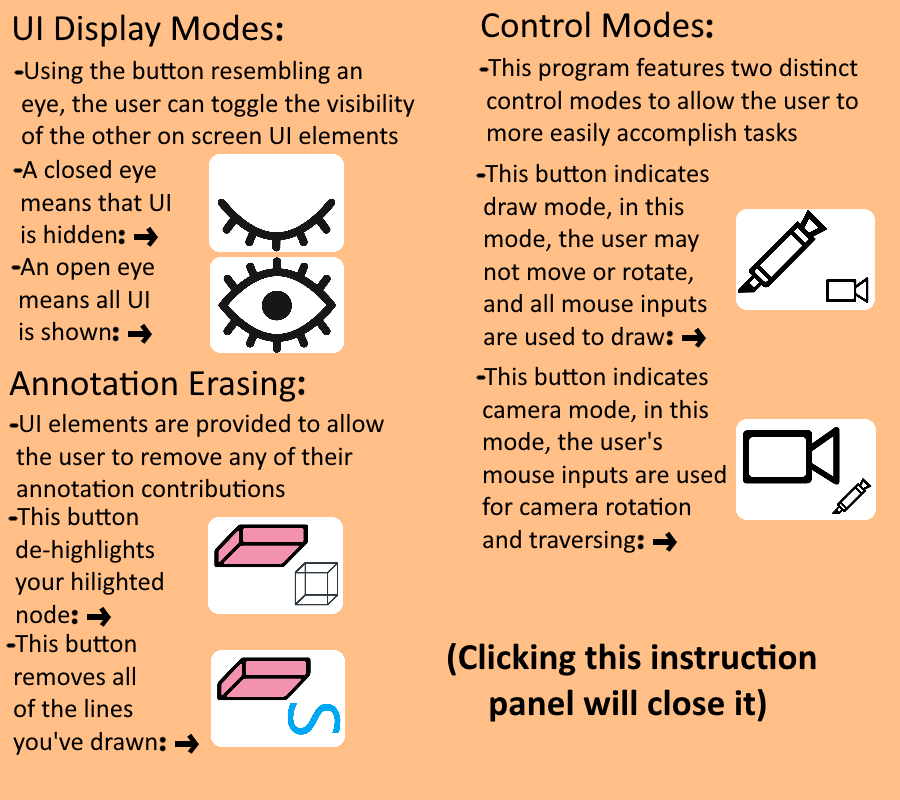
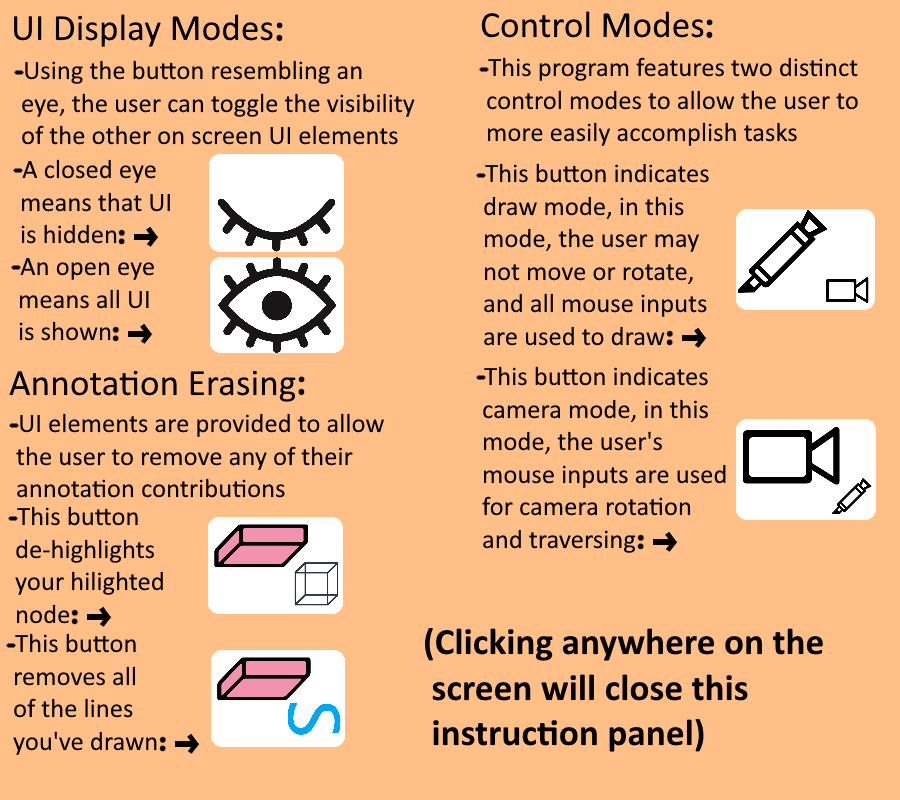
Finalized backdrop for help ui and worked with resizing the main video window to take advantage of the additional space

Changed region(s): [[0.4667, 0.7812, 0.9333, 0.9375]]

diff --git a/WebApp/client/public/multiplay/js/main.js b/WebApp/client/public/multiplay/js/main.js
@@ -44,6 +44,7 @@ function showPlayButton() {
   }
 }
 
+
 function onClickPlayButton() {
   playButton.style.display = 'none';
 
@@ -59,6 +60,7 @@ function onClickPlayButton() {
 
   //add UI instructions list
   const UIInstructions = document.createElement('img')
+  UIInstructions.style.zIndex = 200;
   UIInstructions.id = 'UIInstructionsList'
   UIInstructions.src = 'multiplay/images/InstructionPanel1.png'
   UIInstructions.style.display = 'none'
@@ -86,6 +88,7 @@ function onClickPlayButton() {
 
   //add help button
   const elementInstructionsButton = document.createElement('img')
+  elementInstructionsButton.style.zIndex = 200;
   elementInstructionsButton.id = 'instructionsButton'
   elementInstructionsButton.src = 'multiplay/images/questionJava.png'
   playerDiv.appendChild(elementInstructionsButton)
@@ -103,6 +106,7 @@ function onClickPlayButton() {
 
   //add controls instructions button
   const controlInstructionsButton = document.createElement('img')
+  controlInstructionsButton.style.zIndex = 200;
   controlInstructionsButton.id = 'controlInstructionsButton'
   controlInstructionsButton.src = 'multiplay/images/controlQuestions.png'
   controlInstructionsButton.style.display = 'none'
@@ -112,16 +116,21 @@ function onClickPlayButton() {
     if(controlInstructions.style.display == 'none'){
       controlInstructions.style.display = 'block'
       UIInstructions.style.display = 'none'
-      backdropDiv.classList.toggle('hidden')
+      //if the backdrop is hidden, show it
+      if(backdropDiv.classList.contains('hidden')){
+        backdropDiv.classList.remove('hidden')
+      }
     }
     else{
       controlInstructions.style.display = 'none'
-      backdropDiv.classList.toggle('hidden')
+      backdropDiv.classList.add('hidden')
     }
+
   })
 
   //add UI instructions button
   const UIInstructionsButton = document.createElement('img')
+  UIInstructionsButton.style.zIndex = 200;
   UIInstructionsButton.id = 'UIInstructionsButton'
   UIInstructionsButton.src = 'multiplay/images/UIQuestions.png'
   UIInstructionsButton.style.display = 'none'
@@ -131,16 +140,28 @@ function onClickPlayButton() {
     if(UIInstructions.style.display == 'none'){
       UIInstructions.style.display = 'block'
       controlInstructions.style.display = 'none'
-      backdropDiv.classList.toggle('hidden')
+          //if the backdrop is hidden, show it
+      if(backdropDiv.classList.contains('hidden')){
+        backdropDiv.classList.remove('hidden')
+      }
     }
     else{
       UIInstructions.style.display = 'none'
-      backdropDiv.classList.toggle('hidden')
+      backdropDiv.classList.add('hidden')
     }
+
+  })
+
+  backdropDiv.addEventListener('click', function(){
+    backdropDiv.classList.toggle('hidden')
+    UIInstructions.style.display = 'none'
+    controlInstructions.style.display = 'none'
+    controlInstructionsButton.style.display = 'none'
+    UIInstructionsButton.style.display = 'none'
   })
 
 
-  // add fullscreen button
+  //add fullscreen button
   const elementFullscreenButton = document.createElement('img');
   elementFullscreenButton.id = 'fullscreenButton';
   elementFullscreenButton.src = 'multiplay/images/FullScreen.png';
@@ -149,6 +170,7 @@ function onClickPlayButton() {
     if (!document.fullscreenElement || !document.webkitFullscreenElement) {
       if (document.documentElement.requestFullscreen) {
         document.documentElement.requestFullscreen();
+        console.log("sus")
       }
       else if (document.documentElement.webkitRequestFullscreen) {
         document.documentElement.webkitRequestFullscreen(Element.ALLOW_KEYBOARD_INPUT);
@@ -161,6 +183,7 @@ function onClickPlayButton() {
       }
     }
   });
+
   document.addEventListener('webkitfullscreenchange', onFullscreenChange);
   document.addEventListener('fullscreenchange', onFullscreenChange);
   document.addEventListener('pointercancel', e => {

diff --git a/WebApp/client/public/multiplay/css/style.css b/WebApp/client/public/multiplay/css/style.css
@@ -92,23 +92,23 @@ body {
 
 #fullscreenButton {
   position: absolute;
-  top: 25px;
-  right: 25px;
+  top: 15px;
+  right: 15px;
   width: 32px;
   height: 32px;
 }
 
 #instructionsButton{
   position: absolute;
-  top: 25px;
-  left: 25px;
+  top: 15px;
+  left: 15px;
   width: 32px;
   height: 32px;
 }
 
 #controlInstructionsButton{
   position: absolute;
-  top: 25px;
+  top: 15px;
   left: 75px;
   width: auto;
   height: 32px;
@@ -116,7 +116,7 @@ body {
 
 #UIInstructionsButton{
   position: absolute;
-  top: 25px;
+  top: 15px;
   left: 220px;
   width: 32px;
   height: 32px;

diff --git a/WebApp/client/public/css/main.css b/WebApp/client/public/css/main.css
@@ -38,7 +38,8 @@ section:last-child {
 
 div#container {
   margin: 0 auto 0 auto;
-  max-width: 60em;
+  width: 90%;
+  height: 90%;
   padding: 1em 1.5em 1.3em 1.5em;
 }
 
